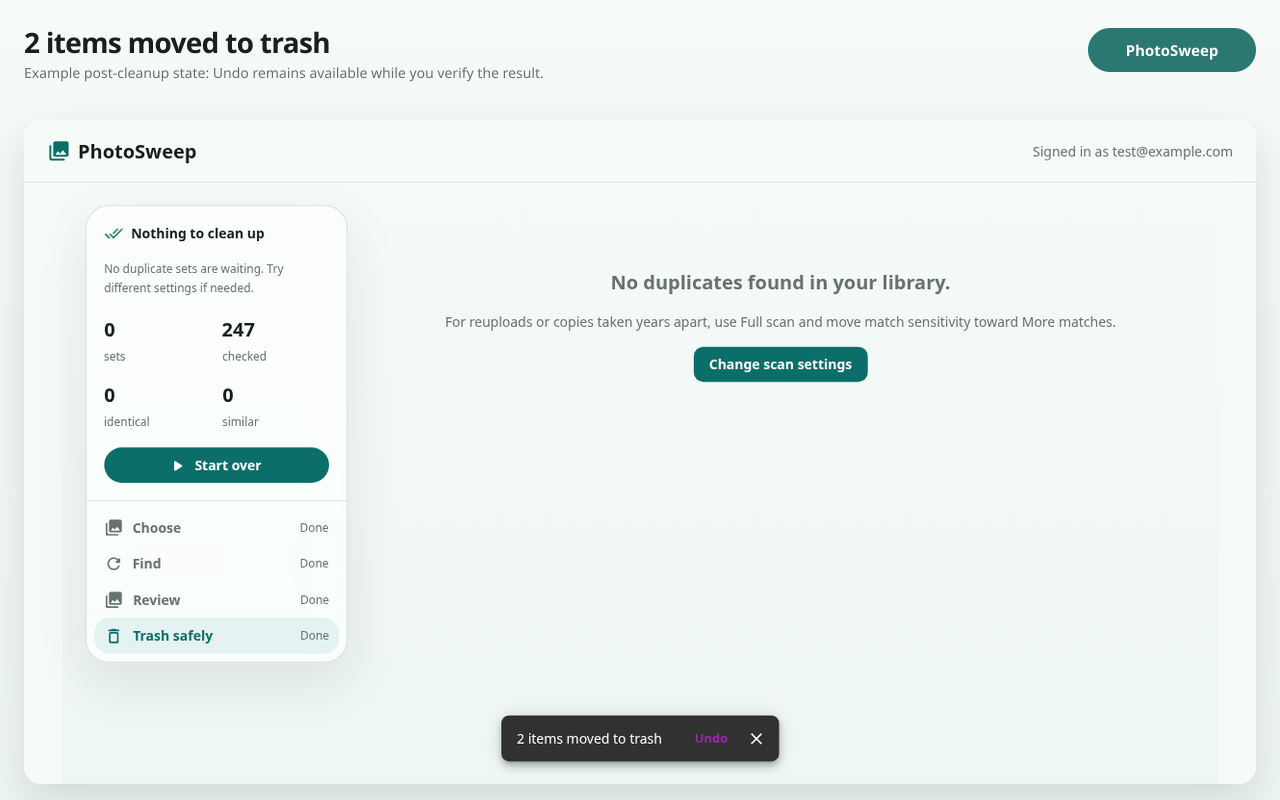
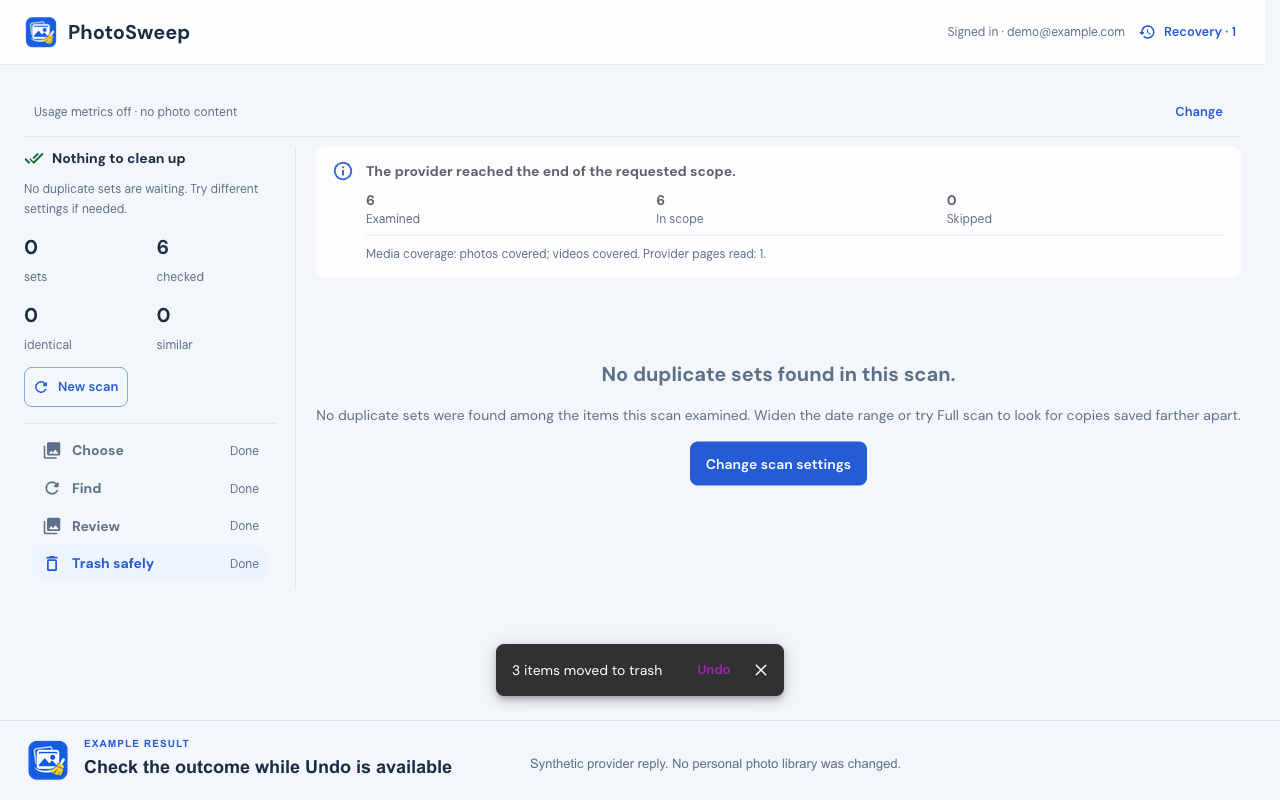
Prepare aligned Chrome Web Store assets

diff --git a/store-assets/CHROME_WEB_STORE_REFRESH.md b/store-assets/CHROME_WEB_STORE_REFRESH.md
@@ -54,14 +54,15 @@ Store package `niggncodoibinbianpkdpepmhfljifbo` at `2.3.0.2`. Its runtime uses
 the separate scan-wide shortcut and current-filter include/remove actions from
 the current source, so it cannot provide captures of the revised review flow.
 
-The live Site now uses the updated copy and visual system. The public Store
-listing remains on older copy and assets: its description does not explain set
-inclusion, and its screenshots use the former teal UI and icon. The source
-candidate now declares app `2.3.5` / Chrome `2.3.5.2`; its local typecheck,
-focused review tests, and extension build pass. A package ZIP and package audit
-for this source candidate have not been produced. Do not describe the public
-Store listing as aligned until its copy and screenshot set are reviewed and
-updated.
+The live Site and current extension source use the same PhotoSweep mark, DM Sans,
+cool light surfaces, and royal-blue `#255BD4` controls. The public Store listing
+still has older copy and teal screenshots; it is not visually aligned yet. A
+clean app `2.3.5` / Chrome `2.3.5.2` package was built from source commit
+`7c3e9fa720684377747de770a3547d5bd381458b` and passed the package audit. The
+five new listing screenshots below were captured from that exact package. The
+local listing copy and screenshot set are ready for review, but have not been
+uploaded or submitted. Do not describe the public Store listing as aligned until
+the live listing is updated and rechecked.
 
 ## Screenshot Replacement Requirements
 
@@ -84,9 +85,11 @@ website:
   bands may be composed around the capture; they must not cover or alter the
   extension UI.
 
-The existing screenshot set uses the previous teal treatment and is not ready
-for a new listing submission. See `screenshots/README.md` for the five-frame
-upload set and the two retained alternates.
+Five screenshot files now show the current extension UI and workflow. Three
+older captures remain in the directory for reference only and must not be
+uploaded with the new set. See `screenshots/README.md` for exact package
+provenance, the five-frame upload order, synthetic-state labels, and retained
+reference files.
 
 Screenshots must be product-dominant:
 
@@ -95,48 +98,49 @@ Screenshots must be product-dominant:
 - If iCloud/Amazon are mentioned or shown, the provider selector must be visible and functional in the captured UI.
 - Screenshots must not claim identical feature parity across Google Photos, iCloud Photos, and Amazon Photos.
 - Screenshots must show review-before-cleanup behavior, not one-click deletion.
-- Screenshots based on local seeded duplicate state must be labeled as example review, confirmation, compact comparison, or post-cleanup states in the caption band.
+- Screenshots based on local seeded duplicate state must be labeled as example review, confirmation, or post-cleanup/result states in the caption band.
 
 ## Proposed Screenshot Set
 
 1. Start with a focused scan
    - File: `screenshots/02-focused-scan.png`
-   - Shows scan settings and date/batch/scope controls.
-   - Caption: "Start with a focused scan before a large cleanup."
+   - Shows the provider selector and the start of the scan scope controls.
+   - Caption: "Choose a photo library and scope."
 
 2. Review duplicate groups
    - File: `screenshots/04-review-groups.png`
-   - Shows the review screen with exact/similar grouping, keeper choices, the scan-wide “Include all available sets” shortcut, and current-filter include/remove actions using local seeded example state.
-   - Caption: "Example review state: choose keepers, then include sets for cleanup. Newly included sets still need review."
+   - Shows the scan-wide “Include all available sets” shortcut and current-filter “Include all 3 shown sets” action using seeded example state.
+   - Caption: "Example review: choose keepers, then include sets."
 
-3. Confirm before cleanup
+3. Show the include-all result
+   - File: `screenshots/08-include-all-sets.png`
+   - Shows all available sets included and the “Selected · needs review” state.
+   - Caption: "Example review: newly included sets return to Needs review before cleanup."
+
+4. Confirm before cleanup
    - File: `screenshots/05-export-safety.png`
    - Shows typed confirmation and the audit-report warning using local seeded example state.
    - Caption: "Example confirmation state: typed confirmation and an audit report come first."
 
-4. Verify the cleanup outcome
+5. Verify the cleanup outcome
    - File: `screenshots/06-cleanup-outcome.png`
-   - Shows the completed Trash step and the exact `2 items moved to trash` Undo snackbar using local seeded example state.
-   - Caption: "Example post-cleanup state: Undo remains available while you verify the result."
+   - Shows the completed Trash step and the `3 items moved to trash` Undo snackbar from the intercepted local test stub.
+   - Caption: "Example result: check the outcome while Undo is available. No personal photo library was changed."
 
-5. Compare exact and similar results
-   - File: `screenshots/07-compact-exact-similar.png`
-   - Shows the compact side-panel review UI with All, Exact, and Similar filters plus Exact duplicate and Similar group labels using local seeded example state.
-   - Caption: "Example compact review: filter exact duplicates separately from visually similar sets."
-
-6. Choose your cloud photo library
+6. Choose your cloud photo library (old reference capture; do not upload)
    - File: `screenshots/01-provider-selector.png`
    - Shows provider selector with Google Photos, iCloud Photos, and Amazon Photos.
    - Caption: "Find duplicates across supported cloud photo libraries."
 
-7. Scan before any cleanup action
+7. Scan before any cleanup action (old reference capture; do not upload)
    - File: `screenshots/03-scan-progress.png`
    - Shows scan progress and the review-before-cleanup safety message.
    - Caption: "Scan before any cleanup action."
 
 The public listing currently displays five screenshots. Keep the recommended
 five-frame order below; confirm the current Dashboard limit before a future
-upload. Provider selection and scan progress remain alternate captures.
+upload. The provider-selector and scan-progress files are old reference captures;
+recapture them before using either in a future listing update.
 
 ## Critic Gate
 
@@ -175,11 +179,11 @@ perform publication.
 ## Next reupload target — source candidate, listing assets pending
 
 The source candidate is app version `2.3.5` / Chrome version `2.3.5.2`. The
-current tracked screenshot set still uses the former UI, and the live listing
-copy still omits set inclusion. Refresh the screenshot set from the exact
-committed candidate, review the listing copy and privacy fields, then build and
-audit a fresh package. The current source build is local evidence only; it is
-not an upload package.
+clean ZIP and package audit passed, and the five replacement screenshots were
+captured from that package. The local listing copy now describes set inclusion
+and its Needs review behavior. The live listing remains at `2.3.0.2`; its copy,
+privacy fields, icon, screenshots, and current Dashboard state still require
+review before any upload or submission.
 
 The screenshot refresh, package upload, and publication remain separate review
 steps. This document does not authorize publication.

diff --git a/store-assets/screenshots/README.md b/store-assets/screenshots/README.md
@@ -1,82 +1,53 @@
-# Screenshot Set
+# Chrome Web Store Screenshot Set
 
-Chrome Web Store screenshot size: 1280 x 800.
+Chrome Web Store screenshot size: 1280 x 800 PNG.
 
-These assets are composed from installed PhotoSweep extension UI captured in Chrome. The caption band is outside the product UI and should not obscure the extension layout.
+## Ready upload set
 
-## Current readiness
+Five screenshots are ready for a listing review. Each shows the exact PhotoSweep
+extension package built from source commit
+`7c3e9fa720684377747de770a3547d5bd381458b` (app `2.3.5`, Chrome `2.3.5.2`).
+The ZIP SHA-256 is
[1 lines of base64/hex data omitted]
+Package audit passed with a clean source tree. Captures used an isolated
+Playwright Chromium context and synthetic account/results; the cleanup request
+was intercepted by the local Google Photos test stub. No personal provider
+library was read or changed.
 
-All seven tracked screenshots still use the previous teal UI and branding;
-the review frame also predates the scan-wide Include action and current-filter
-include/remove controls. Keep these PNGs as reference only. Recapture the set
-from the exact approved release package using the current photo-and-sweep icon,
-royal-blue `#255BD4` controls, cool light surfaces, and DM Sans UI. Do not
-recolor or retouch the captured product UI. The Chrome Web Store Developer
-Dashboard currently allows five screenshots; use the first five below and keep
-the remaining two as alternates.
+The product UI was captured at 1280 x 720. An 80 px caption band was appended
+below it to produce the 1280 x 800 assets. The band uses the current PhotoSweep
+mark, `#F3F6FB` background, `#255BD4` accent, and dark-blue type. Captured UI
+pixels were not retouched or recolored.
 
-## Files
+Upload in this order:
 
-1. `01-provider-selector.png`
-   - Real installed extension provider selector.
-   - Shows Google Photos, iCloud Photos, and Amazon Photos.
+1. `02-focused-scan.png` — **Demo · First scan.** Choose a photo library and scope.
+2. `04-review-groups.png` — **Example review.** Choose keepers, then use the
+   scan-wide shortcut or include only sets shown by the active filter.
+3. `08-include-all-sets.png` — **Example review.** Shows all available sets
+   included and newly included sets marked “Needs review.”
+4. `05-export-safety.png` — **Example confirmation.** Shows the typed count,
+   safety acknowledgment, and cleanup preflight before the provider action.
+5. `06-cleanup-outcome.png` — **Example result.** Shows the intercepted sample
+   response and Undo option; the caption states that no personal library changed.
 
-2. `02-focused-scan.png`
-   - Real installed extension scan/scope screen with date range.
+These screenshots and local listing copy are prepared, not published. Recheck
+the Chrome Web Store Developer Dashboard, current policy requirements, and
+listing fields before upload or submission. The public listing was still on
+version `2.3.0.2` at the 8 October 2026 audit.
 
-3. `03-scan-progress.png`
-   - Real installed extension scan progress screen from a narrow Google Photos date-range scan.
+## Retained reference screenshots
 
-4. `04-review-groups.png`
-   - Real installed extension review UI using local seeded demo duplicate state for screenshot composition only.
-   - Caption labels this as an example review state.
-   - No real photos were moved or modified.
+These captures use the older teal theme and must not be uploaded with the new set:
 
-5. `05-export-safety.png`
-   - Real installed extension Trash confirmation dialog using local seeded demo duplicate state.
-   - Caption labels this as an example confirmation state.
-   - Shows typed confirmation and the audit-report warning before any move action.
-   - No Trash confirmation was completed and no provider library was modified.
+- `01-provider-selector.png` — older provider-selector capture.
+- `03-scan-progress.png` — older scan-progress capture.
+- `07-compact-exact-similar.png` — older compact review capture.
 
-6. `06-cleanup-outcome.png`
-   - Real shipped extension post-cleanup UI with the completed Trash step.
-   - Shows the exact `2 items moved to trash` Undo snackbar.
-   - Caption labels this as an example post-cleanup state: Undo remains available while you verify the result.
-   - Uses a locally seeded demo state; no provider library was modified.
+## Upload rules
 
-7. `07-compact-exact-similar.png`
-   - Real shipped compact side-panel review UI.
-   - Shows `All`, `Exact`, and `Similar` filters plus `Exact duplicate` and `Similar` group labels.
-   - Caption labels this as an example compact review state.
-   - Uses a locally seeded demo state; no provider library was modified.
-
-## Five-frame upload order
-
-Upload the assets in this order so people first see how to start, then how to
-review and stay in control. Recapture the review frame with the clearer sidebar
-workflow: show the two separate steps (“1. Choose keeper photos” and “2. Include
-sets in cleanup”), the scan-wide “Include all available sets” shortcut, the separate
-current-filter “Include all N shown sets” action, and “Remove shown sets from
-cleanup.” Explain that the current-filter action includes only shown sets. Show
-that newly included sets return to “Needs review” and
-that the all-included state is explicit. The filename prefixes describe the
-captured screen, not the upload priority.
-
-1. `02-focused-scan.png` — Start with a focused scan before a large cleanup.
-2. `04-review-groups.png` — Example review state: choose keeper photos, include available sets across filters, then review newly included sets before cleanup.
-3. `05-export-safety.png` — Example confirmation state: typed confirmation and an audit report come first.
-4. `06-cleanup-outcome.png` — Example post-cleanup state: Undo remains available while you verify the result.
-5. `07-compact-exact-similar.png` — Example compact review: filter exact duplicates separately from visually similar sets.
-
-## Retained alternates
-
-- `01-provider-selector.png` — Find duplicates across supported cloud photo libraries.
-- `03-scan-progress.png` — Scan before any cleanup action.
-
-## Upload Rules
-
-- Do not upload if copy or screenshots imply official Google, Apple, or Amazon affiliation.
-- Do not upload if screenshots imply identical feature parity across providers.
-- Do not upload if the caption covers the product UI.
-- Keep the listing caveat near the first provider-support mention: availability and cleanup behavior can vary by provider, region, account state, loaded library area, and media type.
-- Do not remove the in-screenshot "Example" labels from seeded review, confirmation, compact comparison, or post-cleanup states unless those screenshots are replaced with non-seeded real-account captures.
+- Do not imply official Google, Apple, or Amazon affiliation.
+- Do not imply identical feature parity across providers.
+- Keep caption bands outside the product UI.
+- Keep provider availability and cleanup caveats near the first provider-support mention.
+- Keep “Example” labels on seeded review, confirmation, and result states.

diff --git a/store-assets/CWS_PACKAGE.md b/store-assets/CWS_PACKAGE.md
@@ -1,13 +1,15 @@
 # Chrome Web Store package
 
-> **Source candidate (8 October 2026):** `package.json` declares app `2.3.5` /
-> Chrome `2.3.5.2`. Build and audit a fresh package from the exact committed
-> source before any upload. The public listing remains at `2.3.0.2`; this repo
-> change does not upload or publish a listing update.
+> **Source candidate (8 October 2026):** app `2.3.5` / Chrome `2.3.5.2` was
+> built cleanly from commit `7c3e9fa720684377747de770a3547d5bd381458b`; the ZIP
+> passed `npm run audit:extension-package`. ZIP SHA-256:
[1 lines of base64/hex data omitted]
+> replacement Store screenshots were captured from this exact ZIP. The public
+> listing remains at `2.3.0.2`; this repo change does not upload or publish it.
 
-The upload package is generated from the root `package.json` metadata after the
-source candidate is committed. Its `version` and `chromeVersion` are
-authoritative; do not copy a version from this document.
+The upload package is generated from the root `package.json` metadata. Its
+`version` and `chromeVersion` are authoritative; do not copy a version from
+this document.
 
 - Title: `PhotoSweep for Google Photos™`
 - Short description: `Find duplicate photos and videos in Google Photos. Matching stays in your browser. Review, then Trash only what you confirm.`
